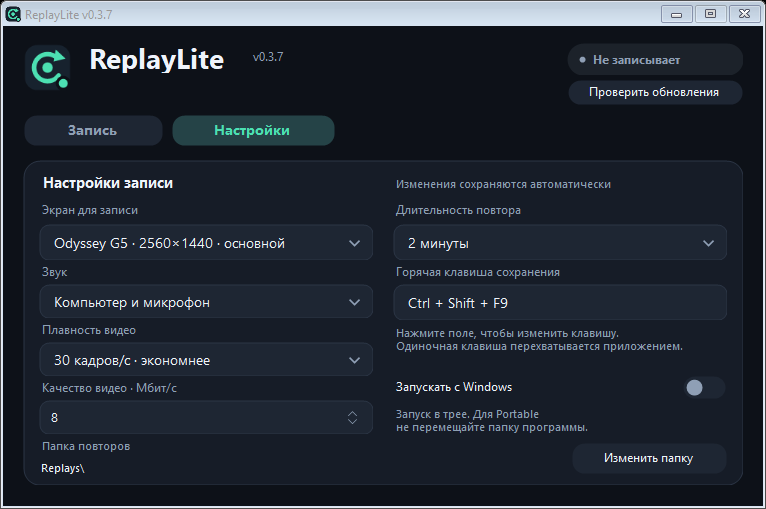
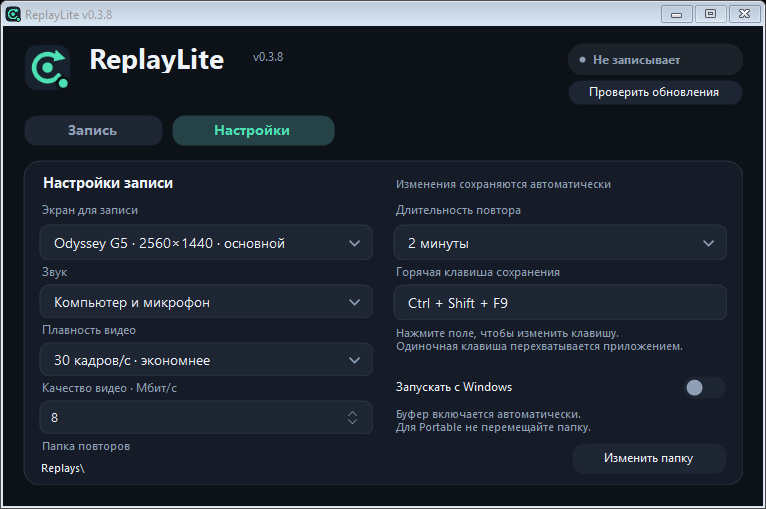
Start replay buffer automatically in the tray without showing a window

Changed region(s): [[0.5104, 0.7957, 0.7807, 0.8546], [0.3603, 0.0884, 0.3903, 0.1179]]

diff --git a/source/MainForm.cs b/source/MainForm.cs
@@ -20,6 +20,7 @@ namespace ReplayLite
         readonly ActionButton update = new ActionButton(); bool updating, monitorRefresh;
         readonly ToggleSwitch startup = new ToggleSwitch(); readonly Label startupInfo = new Label();
         readonly bool startInTray;
+        bool startupCanceled;
         readonly System.Threading.CancellationTokenSource updateCancel = new System.Threading.CancellationTokenSource();
         DateTime nextUpdateCheck = DateTime.MaxValue;
         bool checkingUpdates, updateDialogOpen, startupChanging, lastBalloonWasUpdate;
@@ -106,7 +107,7 @@ namespace ReplayLite
             foreach (var control in new Control[] { duration, display, sound, hotkey, fps, rate }) control.Height = 36;
             foreach (var control in new Control[] { sound, fps, rate }) control.Height = 34;
             startup.SetBounds(370, 211, 334, 32); startup.Font = new Font("Segoe UI", 9); startup.Text = "Запускать с Windows"; options.Controls.Add(startup);
-            startupInfo.SetBounds(370, 247, 334, 31); startupInfo.BackColor = Theme.Card; startupInfo.ForeColor = Theme.Muted; startupInfo.Font = new Font("Segoe UI", 8); startupInfo.Text = Settings.Portable ? "Запуск в трее. Для Portable\nне перемещайте папку программы." : "Запуск в трее после входа в Windows."; options.Controls.Add(startupInfo);
+            startupInfo.SetBounds(370, 247, 334, 31); startupInfo.BackColor = Theme.Card; startupInfo.ForeColor = Theme.Muted; startupInfo.Font = new Font("Segoe UI", 8); startupInfo.Text = Settings.Portable ? "Буфер включается автоматически.\nДля Portable не перемещайте папку." : "Запуск в трее с включённым буфером."; options.Controls.Add(startupInfo);
             if (!testing) try { startup.Checked = StartupRegistration.Enabled(Application.ExecutablePath); } catch (Exception error) { startup.Enabled = false; startupInfo.Text = "Не удалось прочитать автозапуск."; tips.SetToolTip(startupInfo, error.Message); }
             startup.CheckedChanged += delegate
             {
@@ -279,8 +280,9 @@ namespace ReplayLite
             catch (Exception e) { Native.UnregisterHotKey(Handle, 1); settings.Hotkey = previous; RegisterConfiguredHotkey(); hotkeyInfo.ForeColor = Theme.Red; hotkeyInfo.Text = "Не удалось сохранить: " + e.Message; return false; }
             hotkeyRegistered = true; hotkey.Binding = binding; hotkeyInfo.ForeColor = Theme.Muted; hotkeyInfo.Text = "Сочетание сохранено. Нажми поле, чтобы изменить его снова."; UpdateHotkeyLabels(); return true;
         }
-        async Task Toggle()
+        async Task Toggle(bool background = false)
         {
+            if (!background) startupCanceled = true;
             if (busy || closing) return;
             busy = true; SyncActions(); Exception error = null;
             try
@@ -296,8 +298,32 @@ namespace ReplayLite
                 }
             }
             catch (Exception e) { error = e; }
-            if (error != null) { if (recorder != null) await StopRecorder(); SetState("Не удалось начать запись", TrayState.Error); ShowError(error.Message); }
+            if (error != null) { if (recorder != null) await StopRecorder(); SetState("Не удалось начать запись", TrayState.Error); stateDetail.Text = error.Message; }
             busy = false; SyncActions();
+            if (error != null && !background) ShowError(error.Message);
+        }
+        internal async Task StartInBackgroundAsync(bool startCapture = true)
+        {
+            var handle = Handle; RegisterConfiguredHotkey();
+            if (startCapture)
+            {
+                for (int attempt = 0; attempt < 3; attempt++)
+                {
+                    if (attempt > 0)
+                    {
+                        try { await Task.Delay(3000, updateCancel.Token); } catch (OperationCanceledException) { return; }
+                    }
+                    if (closing || released || startupCanceled || recorder != null || busy) return;
+                    monitorRefresh = true;
+                    try { RefreshMonitors(); UpdateOptionsSummary(); }
+                    finally { monitorRefresh = false; }
+                    await Toggle(true);
+                    if (recorder != null && recorder.Running) break;
+                }
+                if (!closing && !released && recorder == null && !testing)
+                { lastBalloonWasUpdate = false; tray.ShowBalloonTip(5000, "Не удалось включить буфер ReplayLite", "Откройте ReplayLite из трея и проверьте экран, звук и папку записи.", ToolTipIcon.Warning); }
+            }
+            if (!testing && !closing && !released) await CheckForUpdates();
         }
         async Task StopRecorder()
         {
@@ -378,7 +404,7 @@ namespace ReplayLite
         }
         protected override void Dispose(bool disposing) { if (disposing) ReleaseUi(); base.Dispose(disposing); }
         protected override async void OnShown(EventArgs e)
-        { base.OnShown(e); RegisterConfiguredHotkey(); if (startInTray) Hide(); if (!testing) await CheckForUpdates(); }
+        { base.OnShown(e); RegisterConfiguredHotkey(); if (!testing && !startInTray) await CheckForUpdates(); }
         protected override void WndProc(ref Message message)
         {
             if (message.Msg == 0x0312 && message.WParam.ToInt32() == 1) { if (!hotkey.IsCapturing) { var pending = SaveReplay(); } return; }
@@ -431,10 +457,15 @@ namespace ReplayLite
             VerifyStartupForTest(); report.AppendLine("STARTUP_REGISTRY_QUOTING_ENABLE_DISABLE_OWNERSHIP: PASS");
             using (var launch = new MainForm(true, true))
             {
-                launch.Show(); await Task.Delay(25);
-                if (launch.Visible || !launch.tray.Visible || launch.recorder != null) throw new Exception("Startup did not remain in the tray without capture.");
+                int shown = 0; launch.VisibleChanged += delegate { if (launch.Visible) shown++; };
+                await launch.StartInBackgroundAsync(false);
+                if (shown != 0 || launch.Visible || !launch.IsHandleCreated || !launch.tray.Visible) throw new Exception("Background initialization showed a window.");
+                launch.folder.Text = ""; await launch.StartInBackgroundAsync();
+                if (shown != 0 || launch.Visible || launch.busy || launch.recorder != null || launch.trayState != TrayState.Error) throw new Exception("Failed automatic capture showed a window or left startup busy.");
+                launch.Restore(); if (!launch.Visible) throw new Exception("Background window cannot be restored.");
             }
-            report.AppendLine("STARTUP_LAUNCH_HIDDEN_NO_CAPTURE: PASS");
+            report.AppendLine("STARTUP_INITIALIZATION_NO_VISIBLE_TRANSITIONS_AND_RESTORE: PASS");
+            report.AppendLine("STARTUP_FAILURE_RETRIES_STAY_HIDDEN: PASS");
             var newer = new ReleaseInfo { Version = new Version(99, 1, 2, 0) };
             if (!SetAvailableRelease(newer) || !trayUpdate.Available || !update.Text.Contains("99.1.2") || SetAvailableRelease(newer)) throw new Exception("Update notification missing or repeated.");
             var updateMenu = (RoundedMenu)tray.ContextMenuStrip; updateMenu.Show(this, new Point(30, 100)); await Task.Delay(25); VerifyMenuForTest(updateMenu, true, 6); updateMenu.Close();
@@ -605,6 +636,37 @@ namespace ReplayLite
                 hotkey.CancelCapture(); settings.Hotkey = original; RegisterConfiguredHotkey();
                 if (existed) File.WriteAllBytes(file, originalFile); else if (File.Exists(file)) File.Delete(file);
             }
+        }
+        internal async Task VerifyBackgroundStartupAsync(string root)
+        {
+            Directory.CreateDirectory(root); testing = true;
+            string settingsFile = Path.Combine(Settings.Home, "settings.txt");
+            bool existed = File.Exists(settingsFile); byte[] original = existed ? File.ReadAllBytes(settingsFile) : null;
+            int shown = 0; VisibleChanged += delegate { if (Visible) shown++; };
+            Exception failure = null; var report = new System.Text.StringBuilder();
+            try
+            {
+                folder.Text = Path.Combine(root, "replays");
+                await StartInBackgroundAsync();
+                if (shown != 0 || Visible || !tray.Visible) throw new Exception("Startup made the window visible.");
+                report.AppendLine("STARTUP_NEVER_SHOWS_WINDOW: PASS");
+                if (recorder == null || !recorder.Running || recorder.BufferedSeconds <= 0) throw new Exception("Automatic capture did not start: " + stateDetail.Text);
+                report.AppendLine("STARTUP_REAL_NVENC_BUFFER_AUTO_START: PASS");
+                int pid = recorder.ProcessId;
+                tray.ContextMenuStrip.Show(new Point(40, 40));
+                if (!traySave.Enabled || !trayToggle.Enabled) throw new Exception("Startup tray commands unavailable.");
+                tray.ContextMenuStrip.Close();
+                if (shown != 0) throw new Exception("Tray menu showed the main window.");
+                report.AppendLine("STARTUP_TRAY_SAVE_READY: PASS");
+                Restore();
+                if (!Visible || shown != 1 || recorder.ProcessId != pid || !recorder.Running) throw new Exception("Restoring the window interrupted automatic capture.");
+                report.AppendLine("STARTUP_RESTORE_PRESERVES_CAPTURE: PASS");
+            }
+            catch (Exception error) { failure = error; }
+            busy = true; if (recorder != null) await StopRecorder(); busy = false;
+            if (existed) File.WriteAllBytes(settingsFile, original); else if (File.Exists(settingsFile)) File.Delete(settingsFile);
+            if (failure != null) throw failure;
+            File.WriteAllText(Path.Combine(root, "startup-test.txt"), report.ToString(), new System.Text.UTF8Encoding(false));
         }
         internal async Task VerifyLiveUiAsync(string root)
         {

diff --git a/source/ReplayLite.cs b/source/ReplayLite.cs
@@ -434,6 +434,21 @@ namespace ReplayLite
             if (args.Length > 0 && args[0] == "--self-test") return SelfTest.Run(args).GetAwaiter().GetResult();
             if (args.Length == 2 && args[0] == "--buffer-test") return SelfTest.BufferResetTest(args[1]).GetAwaiter().GetResult();
             if (args.Length == 2 && args[0] == "--job-test") { SelfTest.JobExitTest(args[1]); return 0; }
+            if (args.Length == 2 && args[0] == "--startup-test")
+            {
+                Directory.CreateDirectory(args[1]);
+                using (var form = new MainForm(true, true))
+                {
+                    int exitCode = 1; var handle = form.Handle;
+                    form.BeginInvoke(new Action(async delegate
+                    {
+                        try { await form.VerifyBackgroundStartupAsync(args[1]); exitCode = 0; }
+                        catch (Exception error) { File.WriteAllText(Path.Combine(args[1], "startup-test.txt"), error.ToString()); }
+                        finally { Application.ExitThread(); }
+                    }));
+                    Application.Run(); return exitCode;
+                }
+            }
             if (args.Length == 2 && (args[0] == "--ui-test" || args[0] == "--ui-live-test"))
             {
                 using (var form = new MainForm(false, true))
@@ -457,7 +472,18 @@ namespace ReplayLite
             {
                 bool launchInTray = Array.IndexOf(args, "--startup") >= 0;
                 if (!SingletonCreated) { if (!launchInTray) MessageBox.Show("ReplayLite уже запущен. Открой его из трея."); return 0; }
-                Application.Run(new MainForm(launchInTray)); return 0;
+                using (var form = new MainForm(launchInTray))
+                {
+                    if (!launchInTray) Application.Run(form);
+                    else
+                    {
+                        form.FormClosed += delegate { Application.ExitThread(); };
+                        var handle = form.Handle;
+                        form.BeginInvoke(new Action(async delegate { await form.StartInBackgroundAsync(); }));
+                        Application.Run();
+                    }
+                }
+                return 0;
             }
         }
         static bool SingletonCreated;

diff --git a/README.md b/README.md
@@ -57,7 +57,7 @@
 | **Portable и установка** | Один установщик предлагает оба режима; Portable хранит настройки рядом с приложением. |
 | **Обновление одной кнопкой** | Скачивание из GitHub Releases, проверка SHA-256 и перезапуск с сохранением настроек и записей. |
 | **Уведомления об обновлениях** | Проверка при запуске и раз в шесть часов; новая версия отмечается в окне и меню трея. |
-| **Автозапуск Windows** | Переключатель в настройках запускает программу в трее после входа в Windows. По умолчанию выключен. |
+| **Автозапуск Windows** | Программа запускается сразу в трее и автоматически включает буфер с сохранёнными настройками. По умолчанию выключен. |
 | **Работа в трее** | Сохраняй повтор и управляй буфером без открытого окна. |
 | **Короткие анимации** | Переходы длятся 150–200 мс и останавливаются после скрытия окна. |
 | **Локальная работа** | Записи остаются на компьютере. Для работы приложения не нужны аккаунт или интернет. |
@@ -119,7 +119,7 @@ MP4 появится в выбранной папке. Поначалу сохр
 
 Скачивание и установка начинаются только после нажатия **«Обновить до…»** в окне обновления. Проверяется SHA-256, буфер останавливается, файлы заменяются, программа перезапускается. При ошибке замены предусмотрен откат. Сохранённые MP4 и настройки не перезаписываются; несохранённый буфер при перезапуске очищается.
 
-Переключатель **«Запускать с Windows»** находится в настройках и по умолчанию выключен. После входа в Windows программа открывается в трее; запись нужно включить самостоятельно. Работает и для Portable, если не перемещать папку. При переносе выключи автозапуск в старой копии и включи в новой.
+Переключатель **«Запускать с Windows»** находится в настройках и по умолчанию выключен. После входа в Windows программа запускается сразу в трее, без показа окна, и включает буфер с сохранёнными настройками. Если экран или звук ещё не готовы, выполняются до трёх попыток с паузой 3 секунды; окончательная ошибка отображается уведомлением и состоянием трея. Открытие окна не перезапускает запись. Работает и для Portable, если не перемещать папку. При переносе выключи автозапуск в старой копии и включи в новой.
 
 Старая версия 0.2.x ещё не содержит кнопку обновления: установи 0.3.0 в новую папку. Обычная установка использует прежние настройки из профиля. Для переноса настроек в Portable скопируй старый `settings.txt` в `data/` перед первым запуском.
 

diff --git a/UI-VALIDATION.md b/UI-VALIDATION.md
@@ -1,5 +1,13 @@
 # Проверка обновлённого интерфейса — 14 октября 2026
 
+## Проверки версии 0.3.8 — 16 октября 2026
+
+- Инициализация автозапуска создаёт скрытый HWND и значок трея без единого перехода формы в видимое состояние. Окно затем открывается из трея. В обычных автоматических UI-тестах захват экрана не включается.
+- Ошибка с недопустимой папкой запуска проверена во всех повторных попытках: форма остаётся скрытой, признак занятости сбрасывается, значок показывает ошибку, окно открывается по команде пользователя.
+- Отдельный локальный `--startup-test` использует цикл сообщений без главной формы и реальный NVENC-захват. Буфер включился автоматически; до открытия окна число видимых переходов формы — 0. Команды сохранения и остановки в трее доступны; восстановление окна сохранило PID и работающий захват.
+- Тест завершил захват, удалил временный буфер и восстановил файл настроек тестовой сборки. Полная перезагрузка ПК и готовность устройств именно при входе в Windows не проверялись.
+- Пройдены проверки выпадающих списков, автосохранения, горячих клавиш, уведомления об обновлении, сохранения синтетического видео и отключения анимаций в трее. Новых постоянных таймеров нет; повторные попытки запуска используют только временные асинхронные задержки.
+
 ## Проверки версии 0.3.7 — 16 октября 2026
 
 - Повторное нажатие закрывает каждый из четырёх списков без изменения значения; выбор и повторное открытие проверены 20 раз. В настоящем окне дополнительно проверены два щелчка по длительности и закрытие щелчком снаружи.

diff --git a/docs/GUIDE.md b/docs/GUIDE.md
@@ -65,7 +65,9 @@ cd ReplayLite
 
 ## Автозапуск Windows
 
-Включите «Запускать с Windows» на вкладке настроек. Приложение запускается в трее после входа текущего пользователя в Windows; запись автоматически не включается. Права администратора не требуются. Переключатель по умолчанию выключен и меняет только запись ReplayLite в [HKCU Run](https://learn.microsoft.com/en-us/windows/win32/setupapi/run-and-runonce-registry-keys).
+Включите «Запускать с Windows» на вкладке настроек. После входа текущего пользователя в Windows программа запускается сразу в трее, без краткого показа окна, и автоматически включает буфер с сохранёнными монитором, звуком, длительностью и качеством. Права администратора не требуются. Переключатель по умолчанию выключен и меняет только запись ReplayLite в [HKCU Run](https://learn.microsoft.com/en-us/windows/win32/setupapi/run-and-runonce-registry-keys).
+
+Пока Windows готовит экран и звуковые устройства, возможны до трёх попыток запуска с паузой 3 секунды. При окончательной ошибке окно не открывается: значок показывает ошибку и появляется уведомление. Откройте приложение из трея для подробностей. Открытие окна при работающем буфере продолжает ту же запись. Обычный ручной запуск EXE по-прежнему ожидает кнопку «Начать запись».
 
 В Portable не перемещайте папку после включения автозапуска. При переносе выключите его в старой копии и включите в новой. Обычный деинсталлятор удаляет автозапуск, если он относится к удаляемой копии. Настройки автозагрузки Windows также могут отключать запуск приложения.
 

diff --git a/CHANGELOG.md b/CHANGELOG.md
@@ -1,5 +1,11 @@
 # История изменений
 
+## 0.3.8 — 16 октября 2026
+
+- При автозапуске Windows буфер повторов включается автоматически с сохранёнными настройками. Если экран или звук ещё не готовы, выполняются до трёх попыток с паузой между ними.
+- Убрано мелькание окна при автозапуске: приложение начинает работу сразу в трее. Открытие окна из трея сохраняет работающий буфер.
+- Ошибка автоматического запуска показывается в значке трея и уведомлении, без открытия окна поверх рабочего стола.
+
 ## 0.3.7 — 16 октября 2026
 
 - Повторное нажатие на поле закрывает выпадающий список без изменения выбранного значения; исправлено мгновенное повторное открытие меню.

diff --git a/docs/RELEASING.md b/docs/RELEASING.md
@@ -8,8 +8,8 @@
 4. Создайте и отправьте новый тег, совпадающий с `VERSION`:
 
 ```powershell
-git tag v0.3.7
-git push origin v0.3.7
+git tag v0.3.8
+git push origin v0.3.8
 ```
 
 Workflow `.github/workflows/build-release.yml` проверит версию тега, загрузит зависимости с проверкой SHA256, соберёт и проверит EXE, создаст Portable ZIP и установщик Inno Setup из отдельных файлов, проверит реальную установку обоих режимов, откат/перезапуск обновления и создаст контрольные суммы. Публикация сначала создаёт draft, загружает файлы и только затем открывает релиз пользователям.
